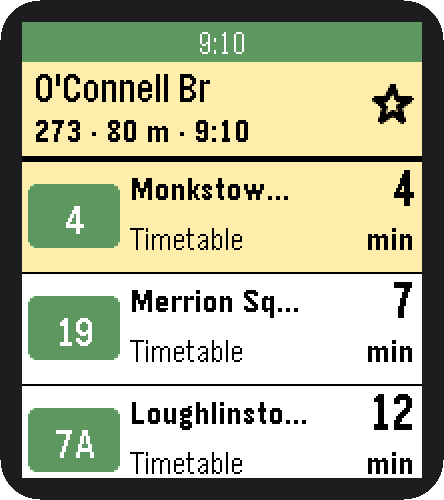
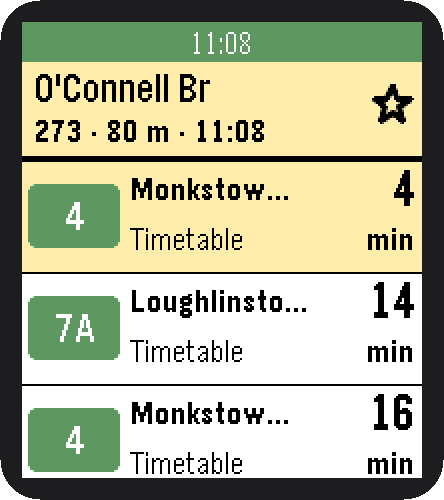
Favourites at the top of Nearby, cached for 6 days and loaded ahead; centre route numbers
Claude-Session: https://claude.ai/code/session_01R4eTV2K2ATNvKw32corm4J

diff --git a/src/pkjs/index.js b/src/pkjs/index.js
@@ -5,6 +5,7 @@ var SITE = 'https://alexandru-dorofte.github.io/pebbleDublinBus/';
 var FEED_URL = 'https://api.nationaltransport.ie/gtfsr/v2/TripUpdates?format=json';
 var MIN_GAP = 61 * 1000; // NTA usage policy: at most one GTFS-R call per 60 s per key
 var NEARBY_M = 1000, NEARBY_MAX = 10, MAX_FAVS = 12;
+var FAV_DAYS = 6;          // favourites' timetables kept on the phone (files cover 8 days)
 var TICK = 20 * 1000;     // recount minutes; MIN_GAP still limits API calls
 var STALE = 3 * 60 * 1000; // keep using the last good feed this long if a fetch fails
 var DEFAULT_FAVS = ['4766'];
@@ -61,20 +62,19 @@ function get(url, headers, done) {
 }
 
 // Cached for the day in localStorage; the site rebuilds daily.
-function cached(name, done) {
-  var k = 'c:' + name, hit = store(k);
-  if (hit) {
-    try {
-      var c = JSON.parse(hit);
-      if (c.day === today()) return done(null, c.data);
-    } catch (e) {}
-  }
+// Site files kept in localStorage. A copy from today is used as is. With keepDays, an older
+// copy within that age is used at once and refreshed in the background; otherwise an old copy
+// is only a fallback for when the phone is offline.
+function cached(name, keepDays, done) {
+  var k = 'c:' + name, c = null;
+  try { c = JSON.parse(store(k)); } catch (e) {}
+  if (c && c.day === today()) return done(null, c.data);
+  var fresh = keepDays && c && c.at && Date.now() - c.at < keepDays * 86400 * 1000;
+  if (fresh) done(null, c.data);
   get(SITE + name, {}, function (err, data) {
-    if (err) { // offline: an older copy beats nothing
-      try { return done(null, JSON.parse(hit).data); } catch (e) { return done(err); }
-    }
-    store(k, JSON.stringify({ day: today(), data: data }));
-    done(null, data);
+    if (err) return fresh ? null : c ? done(null, c.data) : done(err); // offline: an older copy beats nothing
+    store(k, JSON.stringify({ day: today(), at: Date.now(), data: data }));
+    if (!fresh) done(null, data);
   });
 }
 
@@ -144,7 +144,7 @@ function locate(fresh) {
 }
 
 function loadIndex() {
-  cached('stops.json', function (err, data) {
+  cached('stops.json', 0, function (err, data) {
     indexError = err ? 'Could not load the stop list. Check your phone\'s connection' : '';
     if (err) return sendHome();
     index = data;
@@ -203,7 +203,10 @@ function open(code) {
   current = code;
   lastSent = '';
   if (timetables[code]) return refresh();
-  get(SITE + 's/' + code + '.json', {}, function (err, data) { // up to ~200 KB; kept in memory for this session
+  // Up to ~200 KB. Favourites stay on the phone for days; other stops only for this session.
+  var name = 's/' + code + '.json';
+  var load = favs().indexOf(code) >= 0 ? cached.bind(null, name, FAV_DAYS) : get.bind(null, SITE + name, {});
+  load(function (err, data) {
     if (current !== code) return;
     if (err) return send({ STATUS: err === 404 ? 'No buses found for stop ' + code : 'Could not load the timetable' });
     timetables[code] = data;
@@ -215,16 +218,27 @@ function toggleFav(code) {
   var f = favs(), i = f.indexOf(code);
   if (i >= 0) f.splice(i, 1); else f.push(code);
   store('favs', JSON.stringify(f));
+  if (i >= 0) { try { localStorage.removeItem('c:s/' + code + '.json'); } catch (e) {} } // free the space
+  else if (timetables[code]) store('c:s/' + code + '.json', JSON.stringify({ day: today(), at: Date.now(), data: timetables[code] }));
   var msg = { TOAST: i >= 0 ? 'Removed' : 'Saved' };
   if (current === code && timetables[code]) msg.DATA = lastSent = render();
   send(msg);
   sendHome();
 }
 
+// Get favourites ready while the user is still on Nearby: their timetables and the live feed.
+function warm() {
+  favs().forEach(function (code) {
+    if (!timetables[code]) cached('s/' + code + '.json', FAV_DAYS, function (err, data) { if (!err) timetables[code] = data; });
+  });
+  fetchFeed(function () { if (current && timetables[current]) sendData(); }); // a stop opened meanwhile
+}
+
 Pebble.addEventListener('ready', function () {
   lastFetch = +store('lastFetch') || 0;
   loadIndex();
   locate();
+  warm();
   setInterval(refresh, TICK);
 });
 

diff --git a/test.js b/test.js
@@ -78,4 +78,24 @@ assert.strictEqual(dep.due(n[0].ms, night), '10 min');
 
 assert.strictEqual(dep.due(now + 30000, now), 'Due');
 assert.strictEqual(dep.due(now + 75 * 60000, now), '09:15');
+
+// cached() from index.js, against fake storage and network: favourites (keepDays 6) open from an
+// older copy at once; the stop list (keepDays 0) waits for today's copy.
+(function () {
+  var fn = require('fs').readFileSync(__dirname + '/src/pkjs/index.js', 'utf8').match(/function cached\([\s\S]*?\n}\n/)[0];
+  var mem = {}, calls = 0, online = true, SITE = '';
+  function store(k, v) { if (v === undefined) return mem[k] || null; mem[k] = v; }
+  function today() { return '2026-10-15'; }
+  function get(url, h, cb) { calls++; online ? cb(null, 'NEW') : cb('network'); }
+  function saved(daysAgo) { mem['c:x'] = JSON.stringify({ day: 'old', at: Date.now() - daysAgo * 86400e3, data: 'OLD' }); }
+  var cached = eval('(' + fn + ')');
+  function run(keep) { var got = []; cached('x', keep, function (e, d) { got.push(e || d); }); return got; }
+  assert.deepEqual(run(6), ['NEW']); assert.strictEqual(calls, 1);  // nothing saved: download
+  assert.deepEqual(run(6), ['NEW']); assert.strictEqual(calls, 1);  // today's copy: no download
+  saved(2); assert.deepEqual(run(6), ['OLD']);                       // older favourite: at once...
+  assert.strictEqual(JSON.parse(mem['c:x']).data, 'NEW');            // ...and refreshed behind
+  saved(2); assert.deepEqual(run(0), ['NEW']);                       // stop list waits for today's
+  saved(9); online = false; assert.deepEqual(run(6), ['OLD']);       // too old but offline: fallback
+  delete mem['c:x']; assert.deepEqual(run(6), ['network']);          // nothing at all: the error
+})();
 console.log('ok');

diff --git a/src/c/main.c b/src/c/main.c
@@ -222,7 +222,7 @@ static void dep_row(GContext *ctx, const Layer *cell, MenuIndex *i, void *data) 
   graphics_context_set_fill_color(ctx, TFI_GREEN);
   graphics_fill_rect(ctx, GRect(3, 11, 46, 32), 4, GCornersAll);
   graphics_context_set_text_color(ctx, GColorWhite);
-  text(ctx, bus->route, FONT_KEY_GOTHIC_24_BOLD, GRect(3, 12, 46, 30), GTextAlignmentCenter);
+  text(ctx, bus->route, FONT_KEY_GOTHIC_24_BOLD, GRect(3, 10, 46, 30), GTextAlignmentCenter);  // centred in the badge (measured)
 
   graphics_context_set_text_color(ctx, GColorBlack);
   text(ctx, bus->head[0] ? bus->head : "Extra bus", FONT_KEY_GOTHIC_18_BOLD,
@@ -351,12 +351,12 @@ static int page_count(int page) { return page == PAGE_FAVS ? s_nfav : s_nnear; }
 
 static uint16_t list_rows(MenuLayer *m, uint16_t section, void *ctx) {
   int page = page_of(ctx), n = page_count(page);
-  return (n ? n : 1) + (page == PAGE_NEARBY);  // Nearby ends with a link to Favourites
+  return (n ? n : 1) + (page == PAGE_NEARBY);  // + the Favourites link on Nearby
 }
 
-static bool is_fav_link(int page, MenuIndex *i) {
-  return page == PAGE_NEARBY && i->row == (s_nnear ? s_nnear : 1);
-}
+// Nearby starts with a link to Favourites; stop rows come after it.
+static bool is_fav_link(int page, MenuIndex *i) { return page == PAGE_NEARBY && i->row == 0; }
+static int place_row(int page, MenuIndex *i) { return i->row - (page == PAGE_NEARBY); }
 
 static int16_t list_header_height(MenuLayer *m, uint16_t section, void *ctx) { return 28; }
 
@@ -379,7 +379,7 @@ static void list_header(GContext *ctx, const Layer *cell, uint16_t section, void
   else if (s_gps_time && age < 1) strcpy(gps, "GPS now");
   else if (s_gps_time && age < 60) snprintf(gps, sizeof(gps), "GPS %d min", age);
   else if (s_gps_time) strcpy(gps, "GPS 1h+");
-  text(ctx, favs ? "hold to save" : gps, FONT_KEY_GOTHIC_18_BOLD,
+  text(ctx, favs ? "" : gps, FONT_KEY_GOTHIC_18_BOLD,
        GRect(100, 3, b.size.w - 106, 22), GTextAlignmentRight);
 }
 
@@ -394,7 +394,7 @@ static void list_row(GContext *ctx, const Layer *cell, MenuIndex *i, void *data)
   int page = page_of(data);
   if (is_fav_link(page, i)) {
     graphics_context_set_fill_color(ctx, GColorBlack);
-    graphics_fill_rect(ctx, GRect(0, 0, b.size.w, 2), 0, GCornerNone);
+    graphics_fill_rect(ctx, GRect(0, b.size.h - 2, b.size.w, 2), 0, GCornerNone);
     draw_star(ctx, GPoint(8, 11), 20, TFI_GREEN, true);
     char label[24];
     snprintf(label, sizeof(label), "Favourites (%d)", s_nfav);
@@ -414,7 +414,7 @@ static void list_row(GContext *ctx, const Layer *cell, MenuIndex *i, void *data)
     else list_state(ctx, b, st, "");  // error text from the phone
     return;
   }
-  Place *p = page_place(page, i->row);
+  Place *p = page_place(page, place_row(page, i));
   int x = 6;
   if (page == PAGE_NEARBY && p->fav) {
     draw_star(ctx, GPoint(5, 6), 16, TFI_GREEN, true);
@@ -440,7 +440,7 @@ static void list_row(GContext *ctx, const Layer *cell, MenuIndex *i, void *data)
 static void list_select(MenuLayer *m, MenuIndex *i, void *ctx) {
   int page = page_of(ctx);
   if (is_fav_link(page, i)) window_stack_push(s_list_window[PAGE_FAVS], true);
-  else if (i->row < page_count(page)) open_stop(page_place(page, i->row));
+  else if (place_row(page, i) < page_count(page)) open_stop(page_place(page, place_row(page, i)));
 }
 
 // New GPS fix on request: flick the wrist, or press Up on the top row of Nearby.
@@ -499,7 +499,11 @@ static void list_load(Window *w) {
     .get_num_rows = list_rows, .get_header_height = list_header_height, .draw_header = list_header,
     .get_cell_height = list_cell_height, .draw_row = list_row, .select_click = list_select,
   });
-  if (page == PAGE_NEARBY) window_set_click_config_provider(w, nearby_clicks);
+  if (page == PAGE_NEARBY) {
+    window_set_click_config_provider(w, nearby_clicks);
+    // Start on the nearest stop; Favourites is one Up away.
+    menu_layer_set_selected_index(s_list_menu[page], (MenuIndex){0, 1}, MenuRowAlignNone, false);
+  }
 }
 
 static void list_unload(Window *w) {

diff --git a/README.md b/README.md
@@ -20,7 +20,7 @@
 
 - **Nearby stops**: the 10 closest stops within 1 km, with distance and routes
 - **Live times**: realtime NTA data marked *Live*, with the timetable as a fallback (*Timetable*)
-- **Favourites**: save your usual stops and reach them from the end of the Nearby list
+- **Favourites**: save your usual stops; they sit one Up press away at the top of Nearby, and load ahead of time
 - **Location refresh**: flick your wrist for a new fix. The header shows how old it is (*GPS now*, *GPS 3 min*)
 - **Easy to read**: large bold fonts and strong TFI yellow and green that hold up on the Time 2's display
 
@@ -29,7 +29,8 @@
 | Screen | Button | Action |
 |---|---|---|
 | Nearby | **Up / Down** | Scroll |
-| | **Up** on the top row | Refresh location |
+| | **Up** from the first stop | Favourites |
+| | **Up** on Favourites | Refresh location |
 | | **Flick wrist** | Refresh location |
 | | **Select** | Open the stop |
 | Departures | **Select** | Refresh times |
